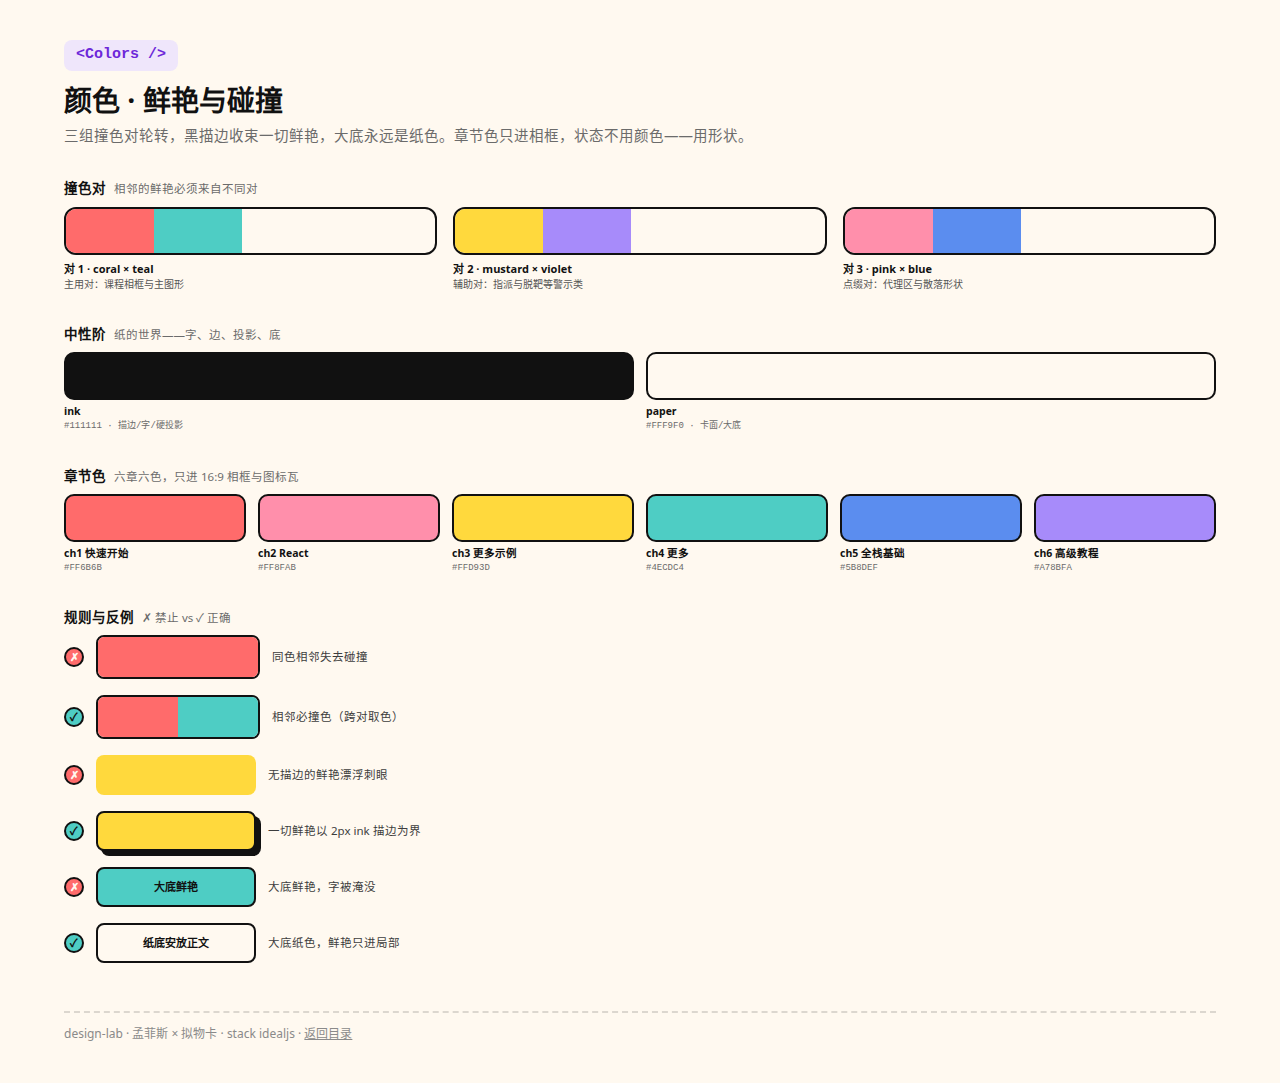
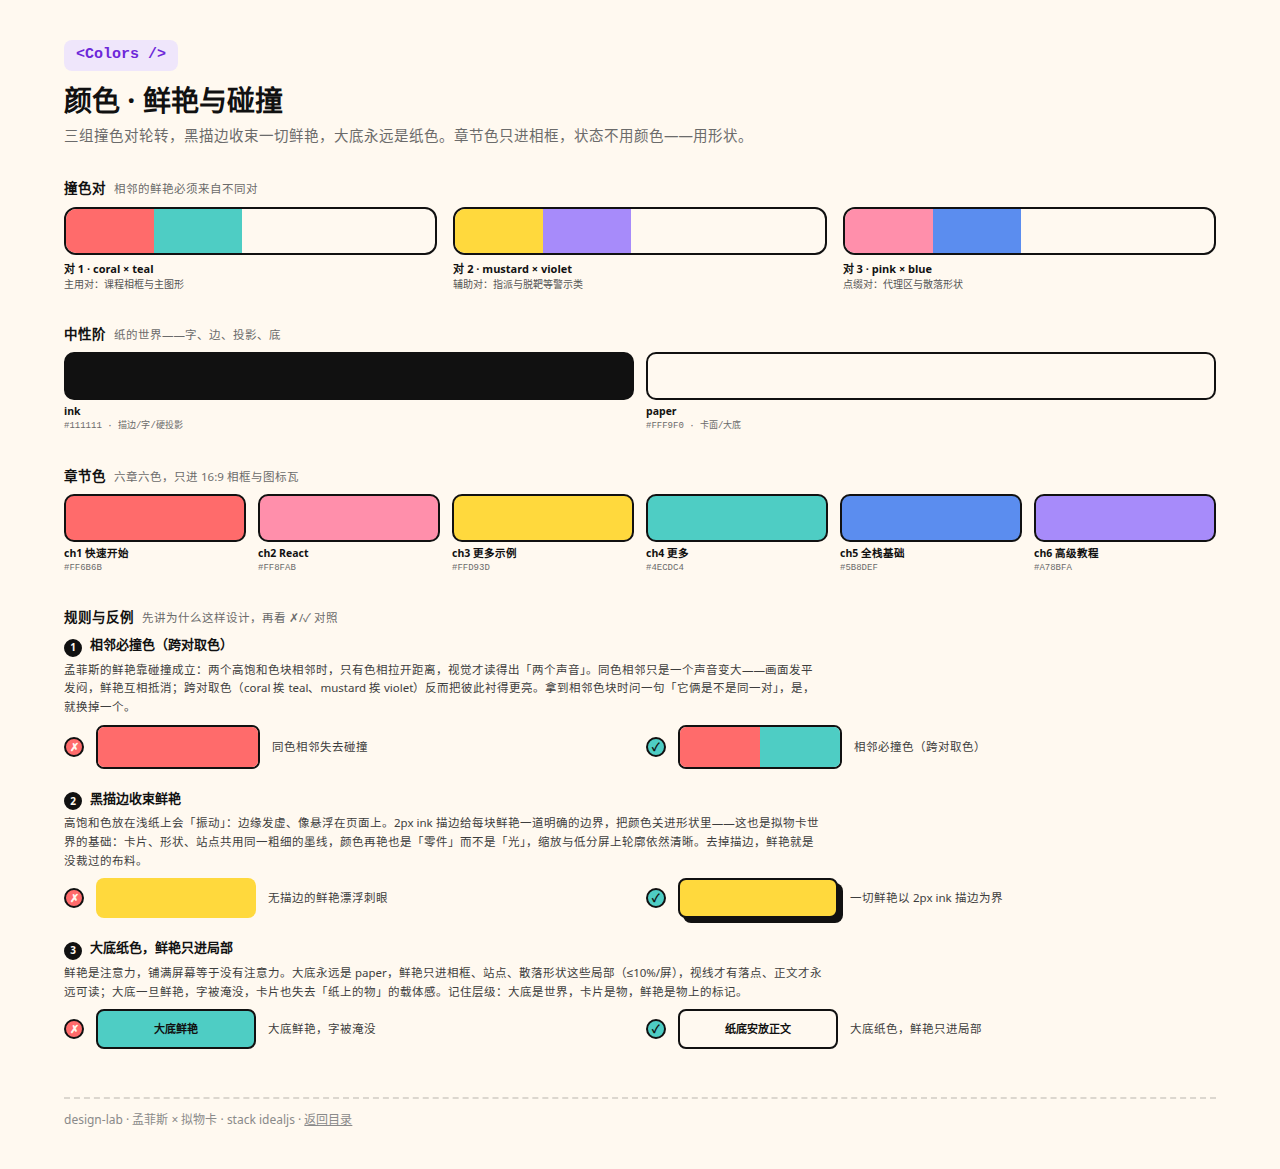
docs: 颜色页规则与反例补设计依据——每条规则先讲为什么（碰撞成立/描边收束/注意力分配）再给 ✗/✓ 并排对照

Changed region(s): [[0.0312, 0.0305, 0.9688, 0.9141], [0.0625, 0.9446, 0.2812, 0.9751]]

diff --git a/apps/design-lab/src/pages/colors/App.tsx b/apps/design-lab/src/pages/colors/App.tsx
@@ -24,6 +24,34 @@ function Chip({ c, n, h }: { c: string; n: string; h: string }) {
   )
 }
 
+/* 三条规则的「为什么」：鲜艳如何成立、如何被收束、注意力如何分配 */
+const RULES = [
+  {
+    name: '相邻必撞色（跨对取色）',
+    why: '孟菲斯的鲜艳靠碰撞成立：两个高饱和色块相邻时，只有色相拉开距离，视觉才读得出「两个声音」。同色相邻只是一个声音变大——画面发平发闷，鲜艳互相抵消；跨对取色（coral 挨 teal、mustard 挨 violet）反而把彼此衬得更亮。拿到相邻色块时问一句「它俩是不是同一对」，是，就换掉一个。',
+    badCap: '同色相邻失去碰撞',
+    goodCap: '相邻必撞色（跨对取色）',
+    badDemo: <div className="flex overflow-hidden rounded-lg border-2 border-ink"><div className="h-10 w-20 bg-clash1a" /><div className="h-10 w-20 bg-clash1a" /></div>,
+    goodDemo: <div className="flex overflow-hidden rounded-lg border-2 border-ink"><div className="h-10 w-20 bg-clash1a" /><div className="h-10 w-20 bg-clash1b" /></div>,
+  },
+  {
+    name: '黑描边收束鲜艳',
+    why: '高饱和色放在浅纸上会「振动」：边缘发虚、像悬浮在页面上。2px ink 描边给每块鲜艳一道明确的边界，把颜色关进形状里——这也是拟物卡世界的基础：卡片、形状、站点共用同一粗细的墨线，颜色再艳也是「零件」而不是「光」，缩放与低分屏上轮廓依然清晰。去掉描边，鲜艳就是没裁过的布料。',
+    badCap: '无描边的鲜艳漂浮刺眼',
+    goodCap: '一切鲜艳以 2px ink 描边为界',
+    badDemo: <div className="h-10 w-40 rounded-lg bg-clash2a" />,
+    goodDemo: <div className="h-10 w-40 rounded-lg border-2 border-ink bg-clash2a shadow-hard" />,
+  },
+  {
+    name: '大底纸色，鲜艳只进局部',
+    why: '鲜艳是注意力，铺满屏幕等于没有注意力。大底永远是 paper，鲜艳只进相框、站点、散落形状这些局部（≤10%/屏），视线才有落点、正文才永远可读；大底一旦鲜艳，字被淹没，卡片也失去「纸上的物」的载体感。记住层级：大底是世界，卡片是物，鲜艳是物上的标记。',
+    badCap: '大底鲜艳，字被淹没',
+    goodCap: '大底纸色，鲜艳只进局部',
+    badDemo: <div className="flex h-10 w-40 items-center justify-center rounded-lg border-2 border-ink bg-clash1b text-[11px] font-bold">大底鲜艳</div>,
+    goodDemo: <div className="flex h-10 w-40 items-center justify-center rounded-lg border-2 border-ink bg-paper text-[11px] font-bold">纸底安放正文</div>,
+  },
+]
+
 function DoDont({ bad, children, text }: { bad?: boolean; children: React.ReactNode; text: string }) {
   return (
     <div className="flex flex-1 items-center gap-3">
@@ -59,26 +87,21 @@ export function App() {
       <Section label="章节色" note="六章六色，只进 16:9 相框与图标瓦">
         <div className="grid grid-cols-6 gap-3">{CHAPTERS6.map((x) => <Chip key={x.n} {...x} h={x.c} />)}</div>
       </Section>
-      <Section label="规则与反例" note="✗ 禁止 vs ✓ 正确">
-        <div className="space-y-4">
-          <DoDont bad text="同色相邻失去碰撞">
-            <div className="flex overflow-hidden rounded-lg border-2 border-ink"><div className="h-10 w-20 bg-clash1a" /><div className="h-10 w-20 bg-clash1a" /></div>
-          </DoDont>
-          <DoDont text="相邻必撞色（跨对取色）">
-            <div className="flex overflow-hidden rounded-lg border-2 border-ink"><div className="h-10 w-20 bg-clash1a" /><div className="h-10 w-20 bg-clash1b" /></div>
-          </DoDont>
-          <DoDont bad text="无描边的鲜艳漂浮刺眼">
-            <div className="h-10 w-40 rounded-lg bg-clash2a" />
-          </DoDont>
-          <DoDont text="一切鲜艳以 2px ink 描边为界">
-            <div className="h-10 w-40 rounded-lg border-2 border-ink bg-clash2a shadow-hard" />
-          </DoDont>
-          <DoDont bad text="大底鲜艳，字被淹没">
-            <div className="flex h-10 w-40 items-center justify-center rounded-lg border-2 border-ink bg-clash1b text-[11px] font-bold">大底鲜艳</div>
-          </DoDont>
-          <DoDont text="大底纸色，鲜艳只进局部">
-            <div className="flex h-10 w-40 items-center justify-center rounded-lg border-2 border-ink bg-paper text-[11px] font-bold">纸底安放正文</div>
-          </DoDont>
+      <Section label="规则与反例" note="先讲为什么这样设计，再看 ✗/✓ 对照">
+        <div className="space-y-5">
+          {RULES.map((r, i) => (
+            <div key={r.name}>
+              <div className="flex items-baseline gap-2">
+                <span className="flex h-[18px] w-[18px] shrink-0 translate-y-[2px] items-center justify-center rounded-full border-2 border-ink bg-ink text-[10px] font-extrabold text-paper">{i + 1}</span>
+                <b className="text-[13px]">{r.name}</b>
+              </div>
+              <p className="m-0 mt-1.5 mb-2 max-w-[760px] text-[11.5px] leading-relaxed text-body">{r.why}</p>
+              <div className="grid grid-cols-2 gap-3">
+                <DoDont bad text={r.badCap}>{r.badDemo}</DoDont>
+                <DoDont text={r.goodCap}>{r.goodDemo}</DoDont>
+              </div>
+            </div>
+          ))}
         </div>
       </Section>
     </Page>
